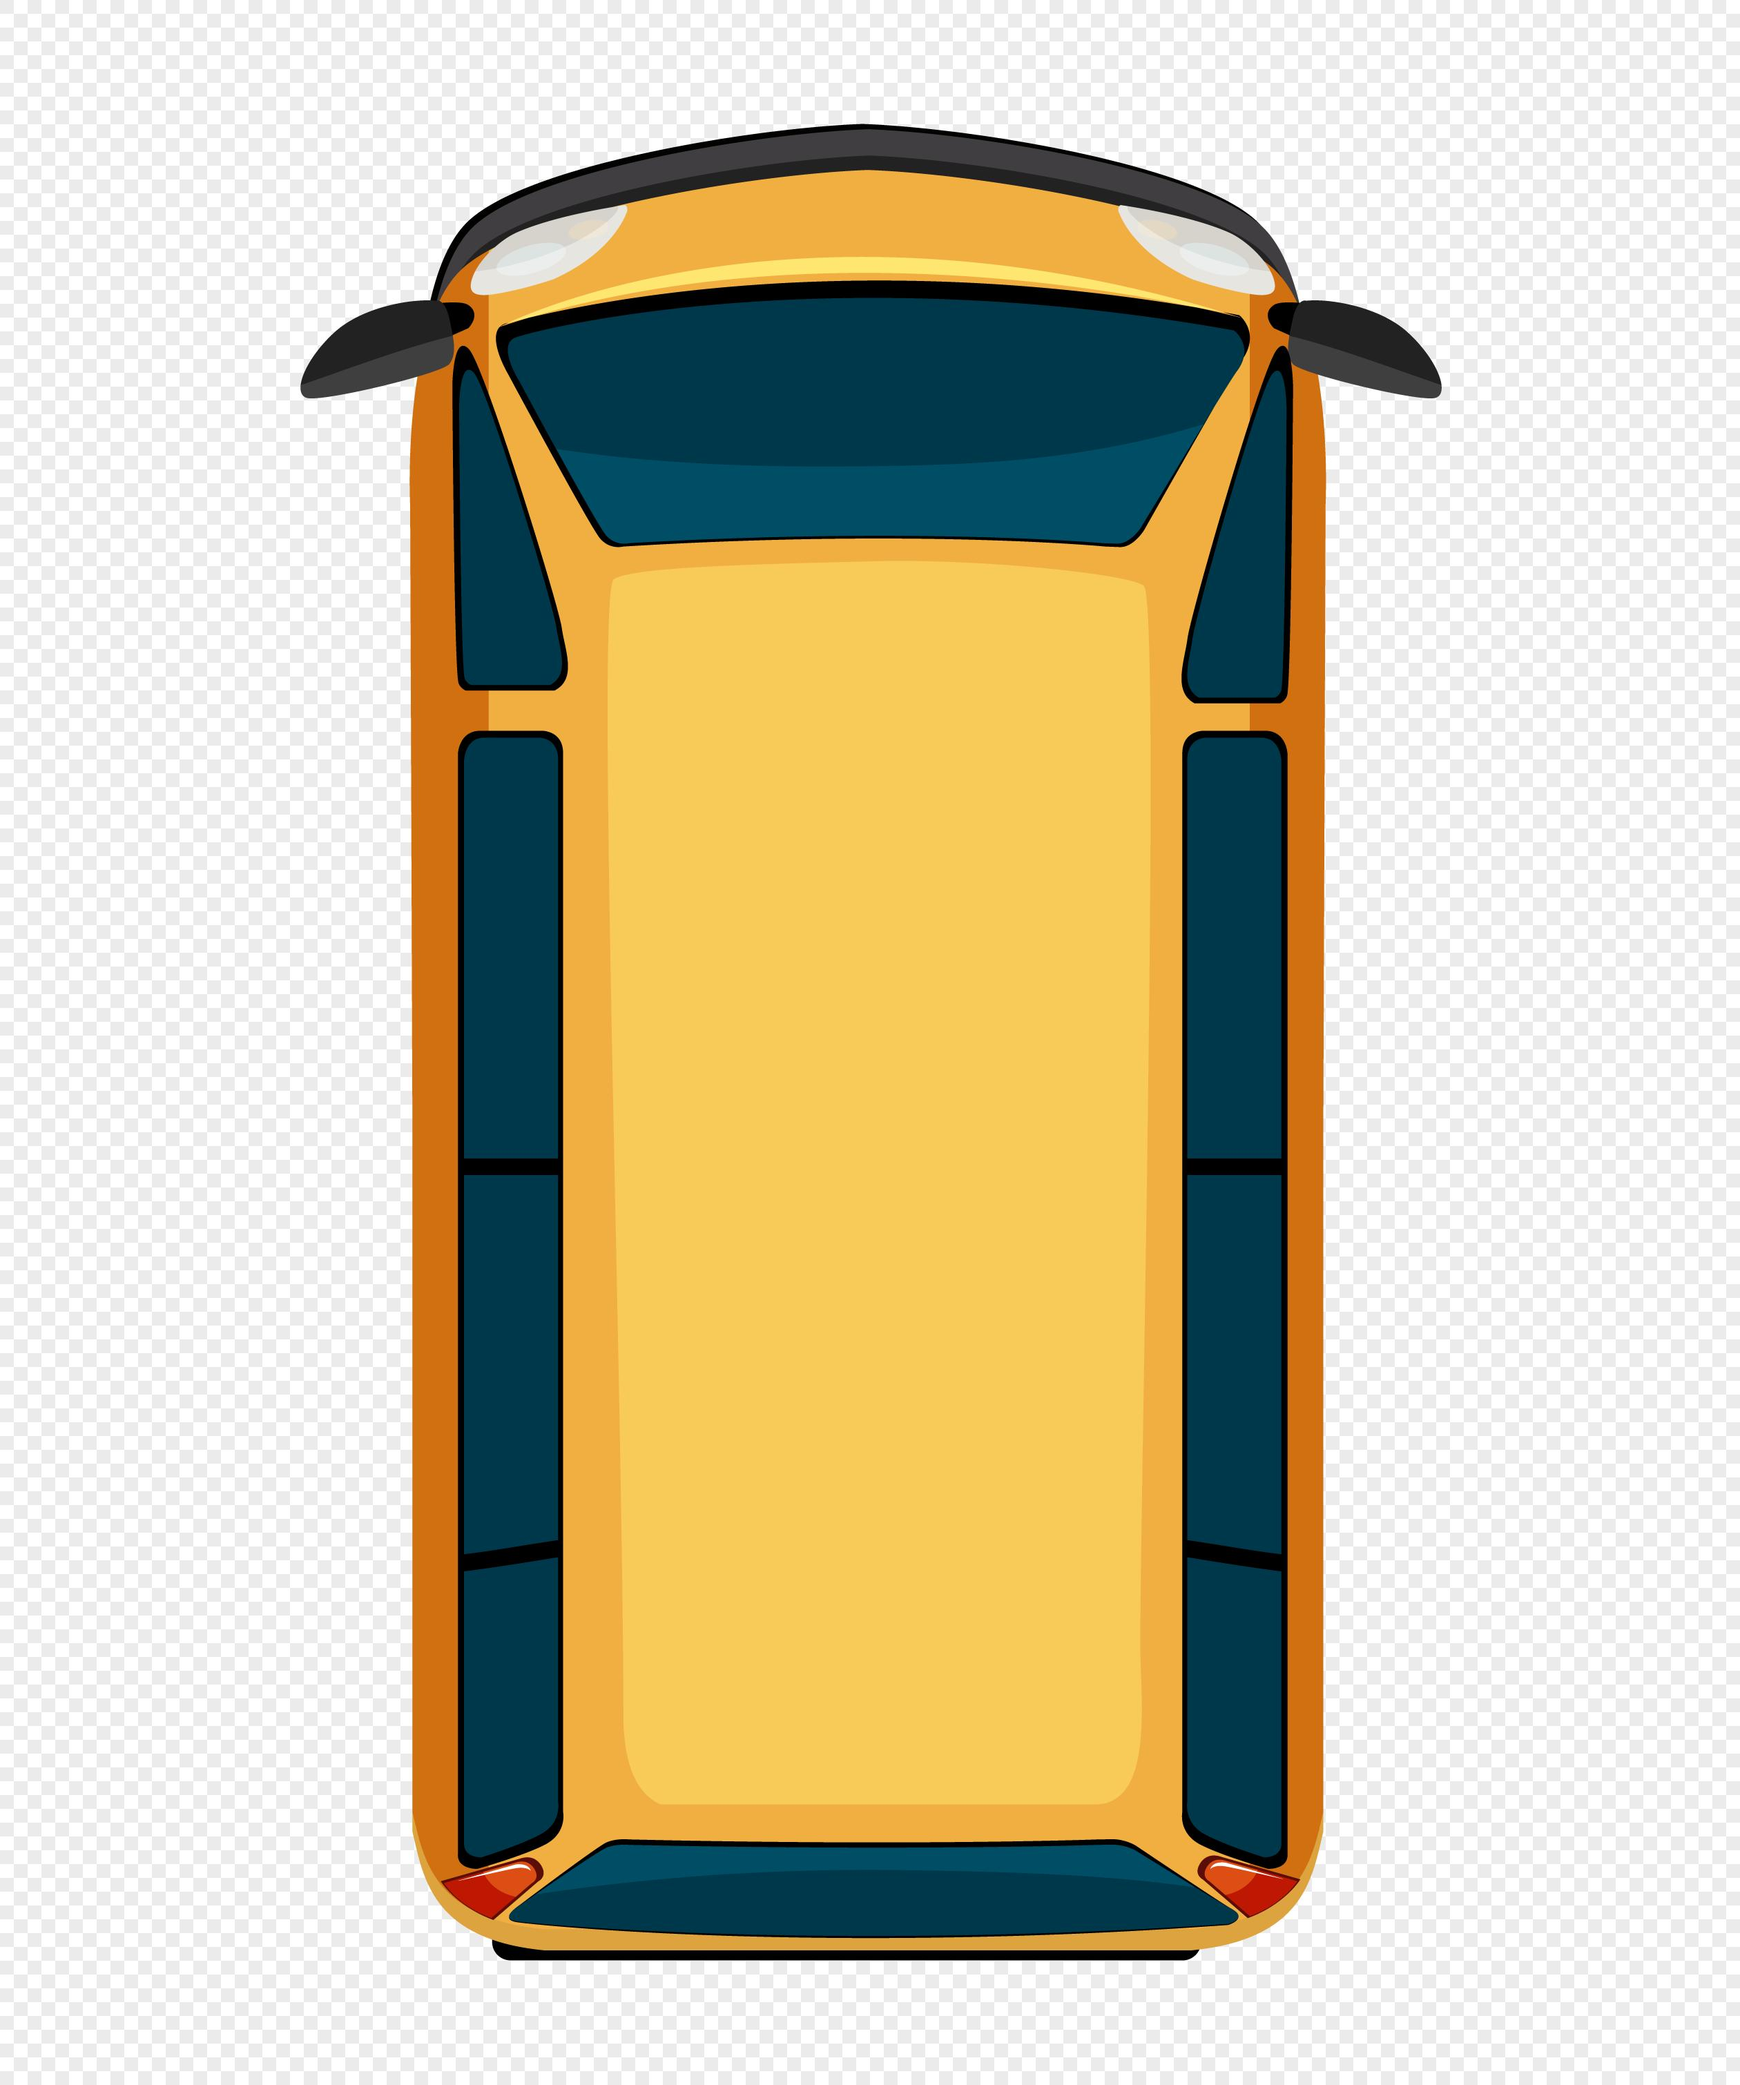
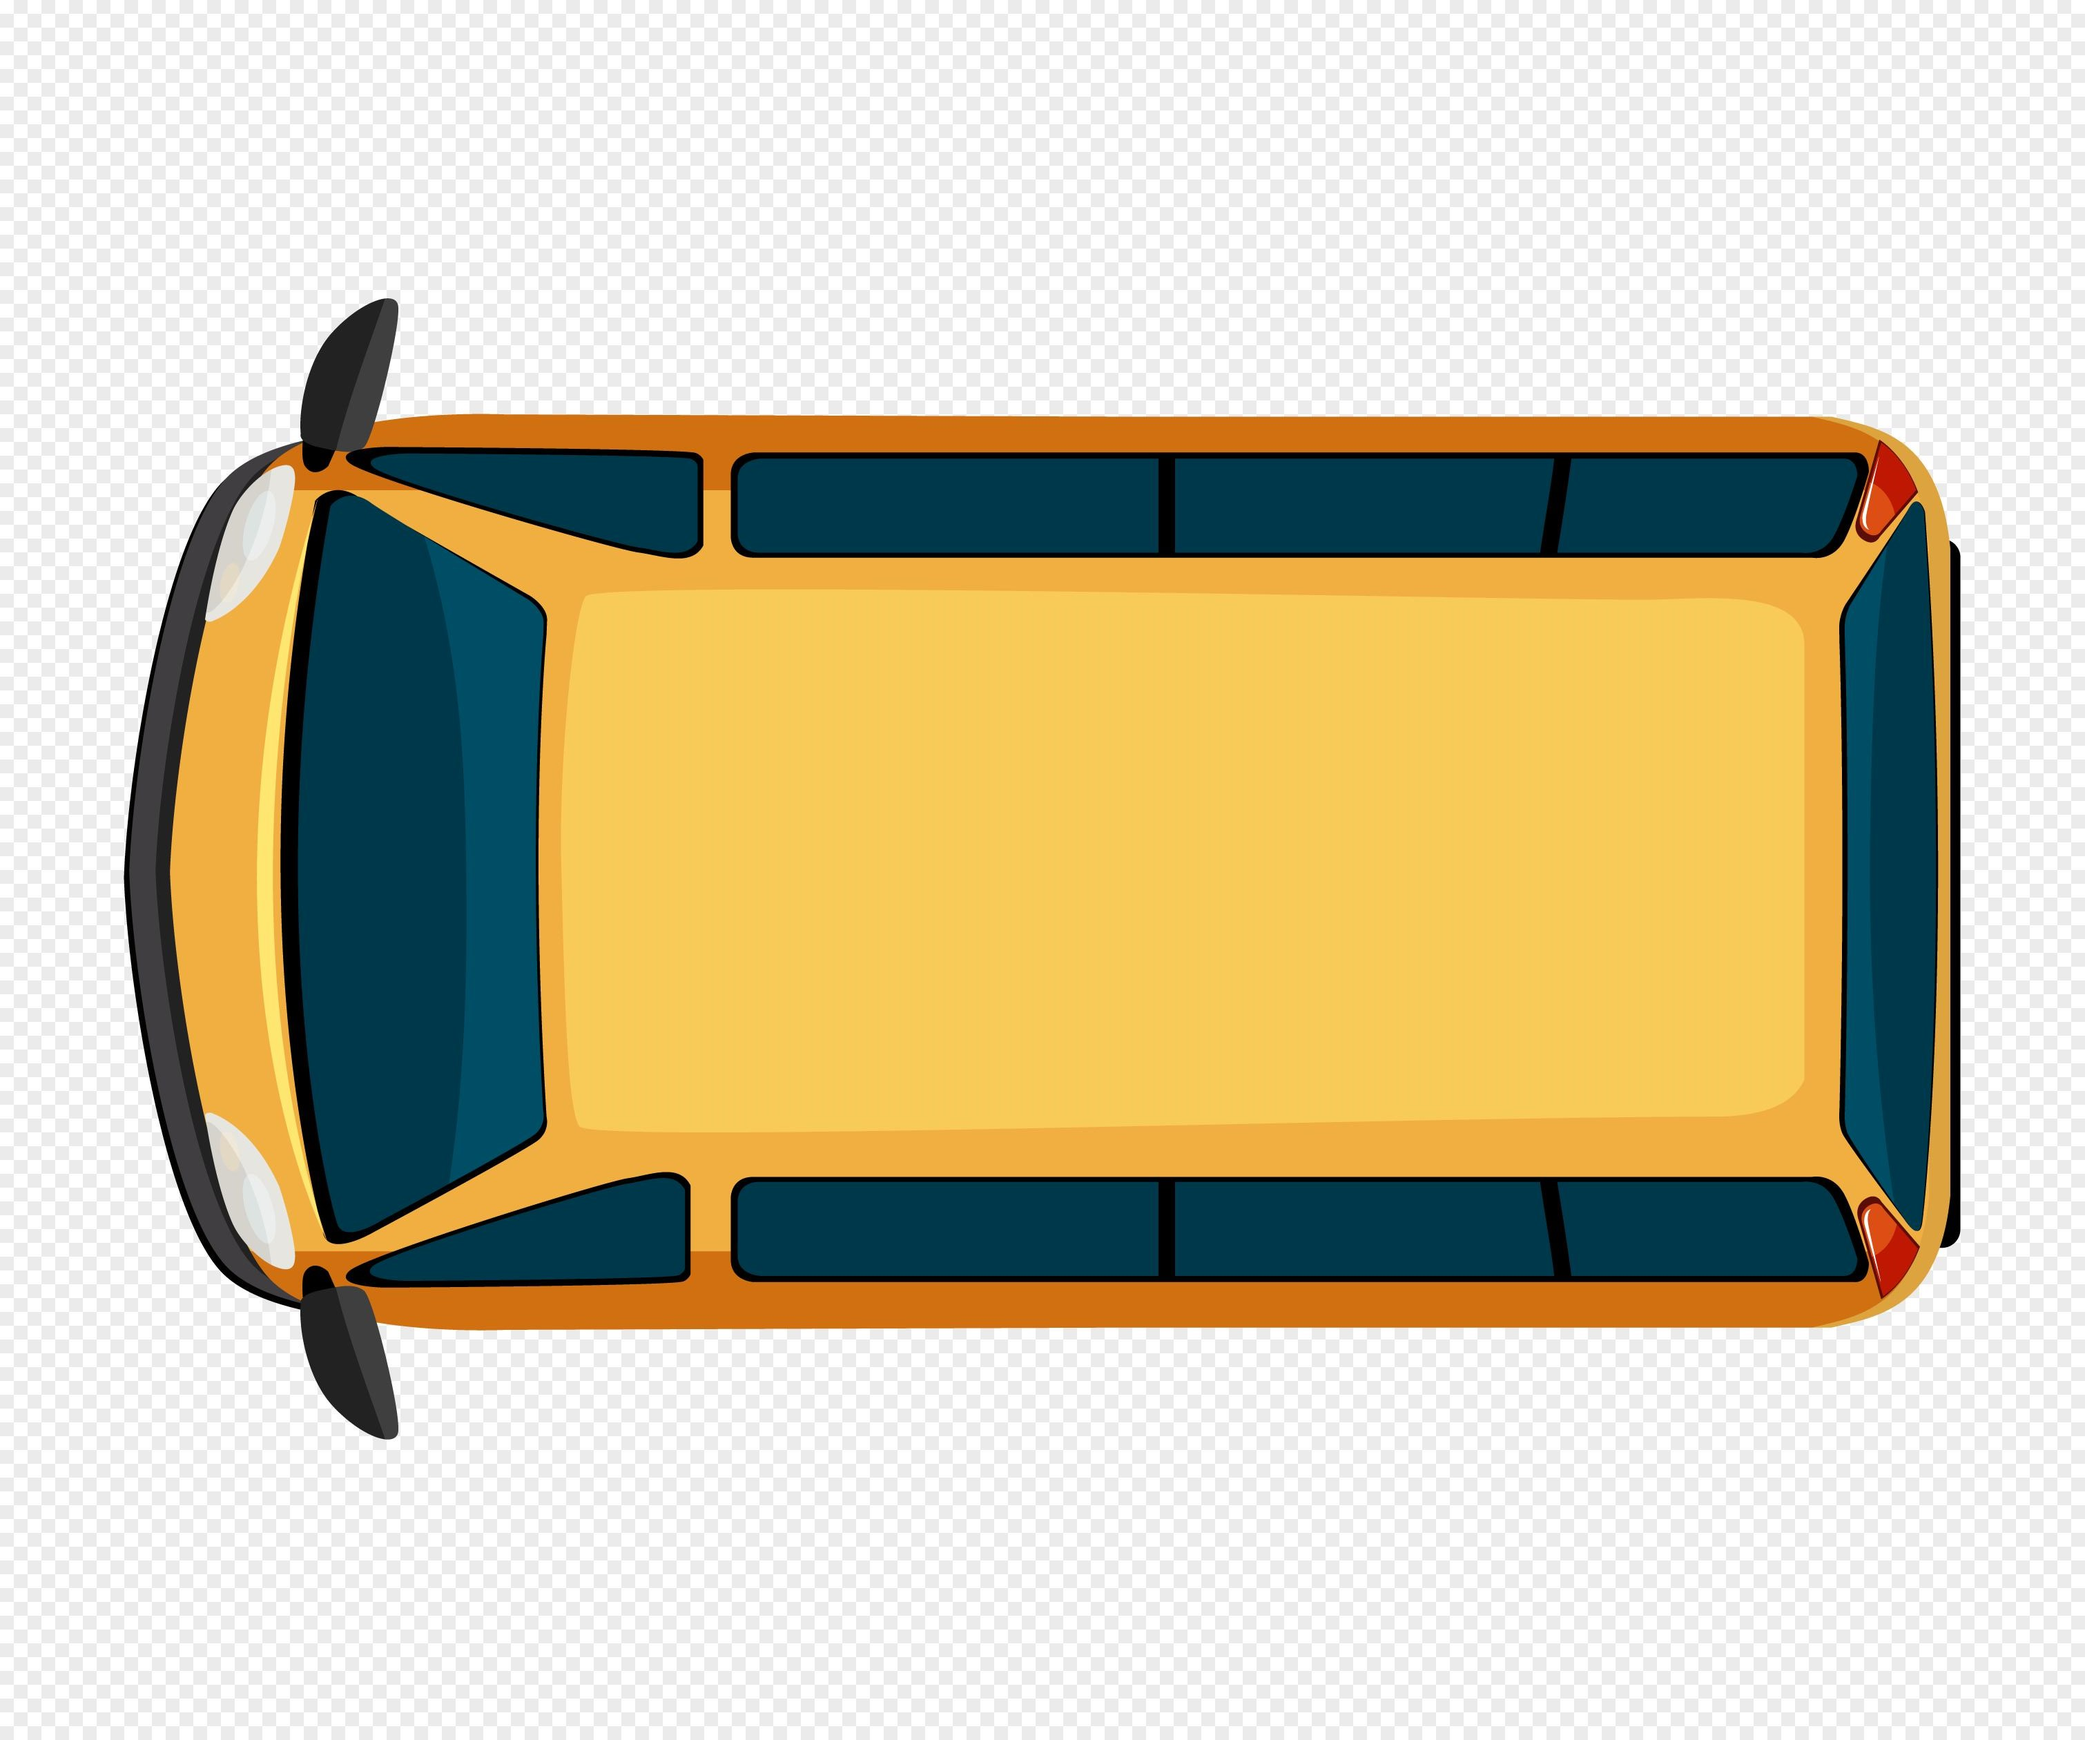
14：56

diff --git a/CS4125_Project_/src/Map/Draw_map.java b/CS4125_Project_/src/Map/Draw_map.java
@@ -13,8 +13,10 @@ import java.util.ArrayList;
 import javax.imageio.ImageIO;
 
 import Driver.Driver;
+import Driver.DriverFactory;
 import Vehicle.Vehicle;
 import Vehicle.VehicleFactory;
+import Driver.DriverFactory.DriverTemper;
 
 import java.awt.BasicStroke;
 
@@ -60,11 +62,12 @@ public class Draw_map implements I_Draw_map{
 	    this.lane = new Lane(450, 10, Map_size_y, Map_size_y, 25,1000, new Color(71, 73, 76));//will use the arraylist
 	    
 	    
-	    Point center = new Point(450,10);		
-	    this.vehicle = new VehicleFactory().createVehicle(10, 10, 10, 3, center, road, lane, "yellow.jpg");
-	    	
+	    Point center = new Point(450,25);	
+	   
+	    this.vehicle = new VehicleFactory().createVehicle(25, 25, 10, 3, center, road, lane, "yellow.jpg");
+	    this.driver = new DriverFactory().createDriver(DriverTemper.NORMAL,vehicle,"Tom");	
 	    
-	    //this.driver = new DriverFactory().createMap();
+	    
 		this.display = idis;	
 		this.BACKGROUND_PATH = "background.png";
 		this.background =  create_background();
@@ -128,7 +131,7 @@ public class Draw_map implements I_Draw_map{
 		this.drawbackground();
 		this.drawLane(lane);
 		
-        //this.drawVehicle(d.getVehicle());
+        this.drawVehicle();
     	
 		
 		this.buffer.show();

diff --git a/CS4125_Project_/src/Vehicle/Vehicle.java b/CS4125_Project_/src/Vehicle/Vehicle.java
@@ -81,6 +81,9 @@ public class Vehicle {
 	public Lane getLane() {
 		return track;
 	}
+	public BufferedImage getCarImage() {
+		return this.carImage;
+	}
 	
 	public String getVehicleImagePath() {
 		return this.imagePath;

diff --git a/CS4125_Project_/src/Driver/Driver.java b/CS4125_Project_/src/Driver/Driver.java
@@ -18,7 +18,7 @@ public class Driver {
 	{
 		return this.name;
 	}
-	public Vehicle geVehilce()
+	public Vehicle getVehilce()
 	{
 		return this.vehicle;
 	}
